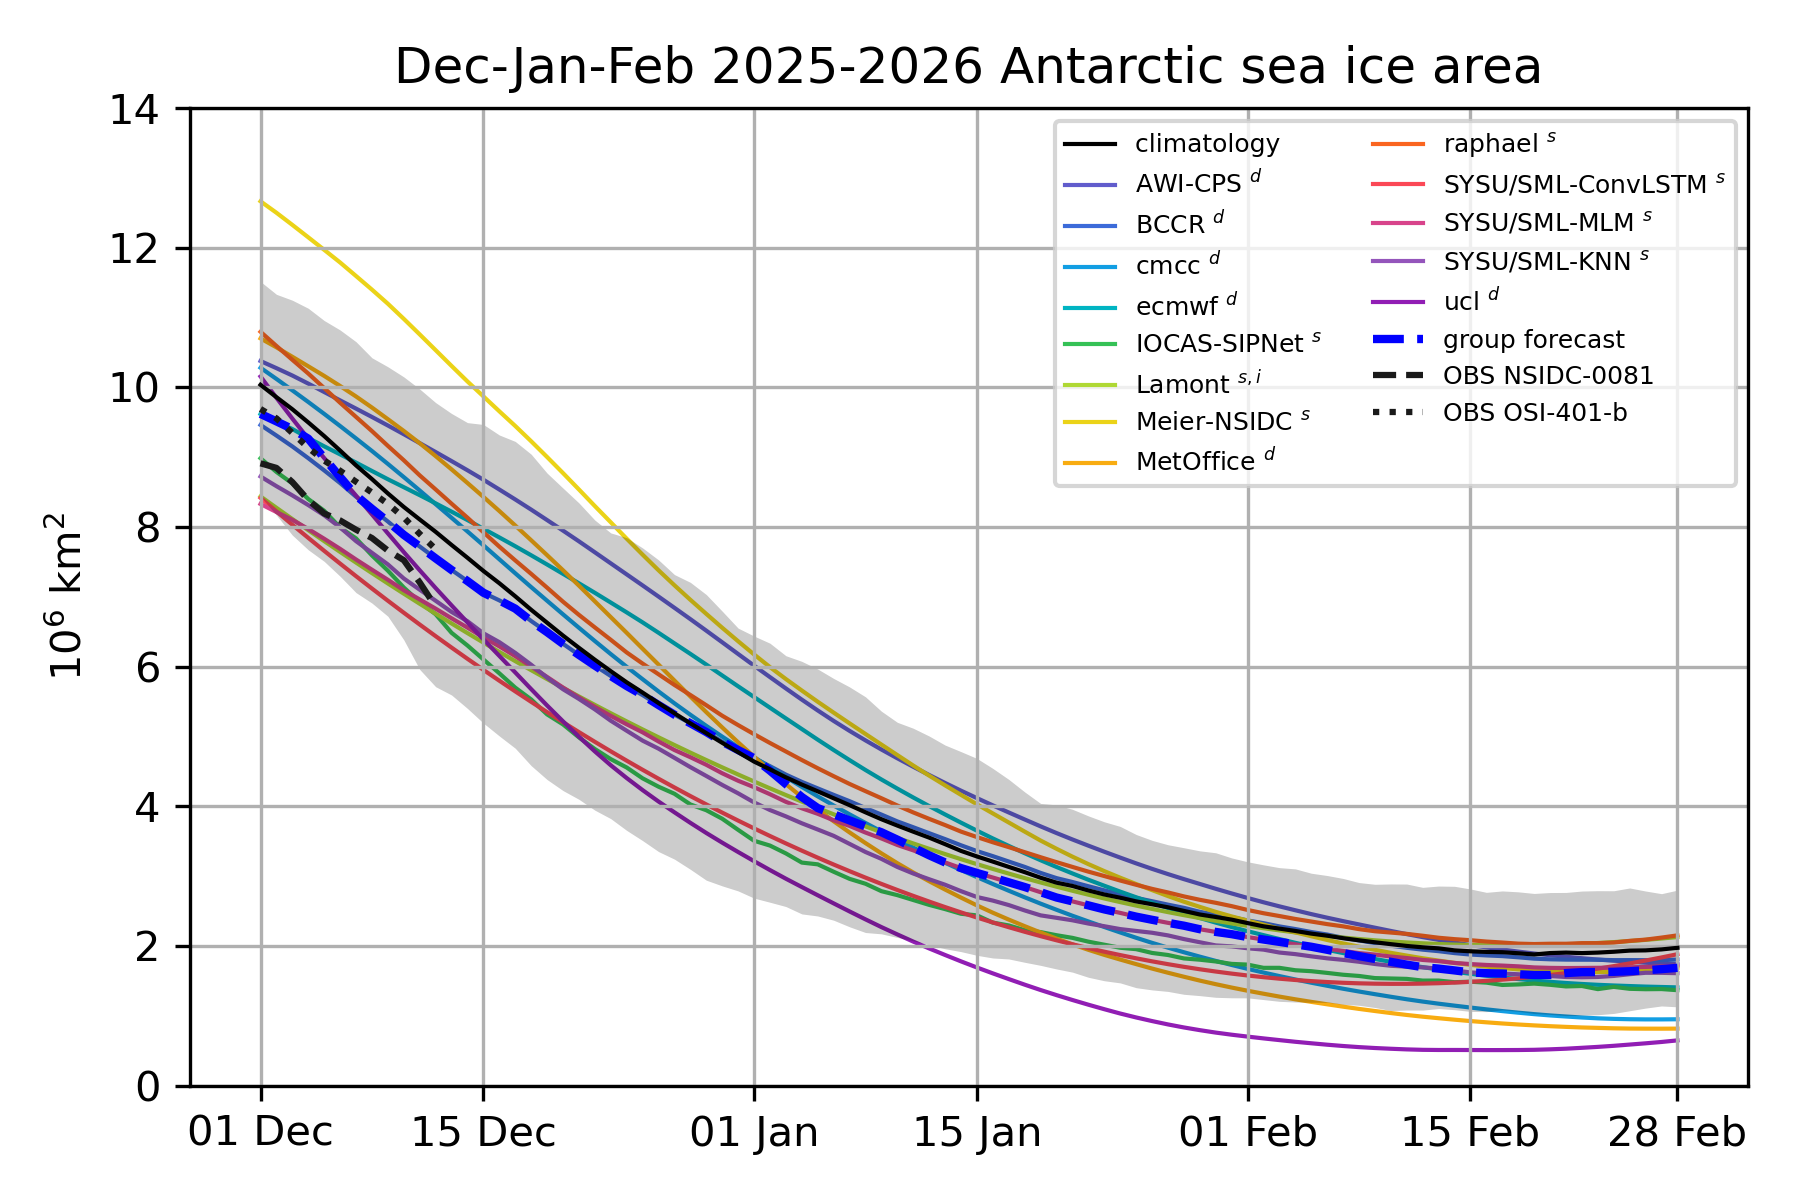
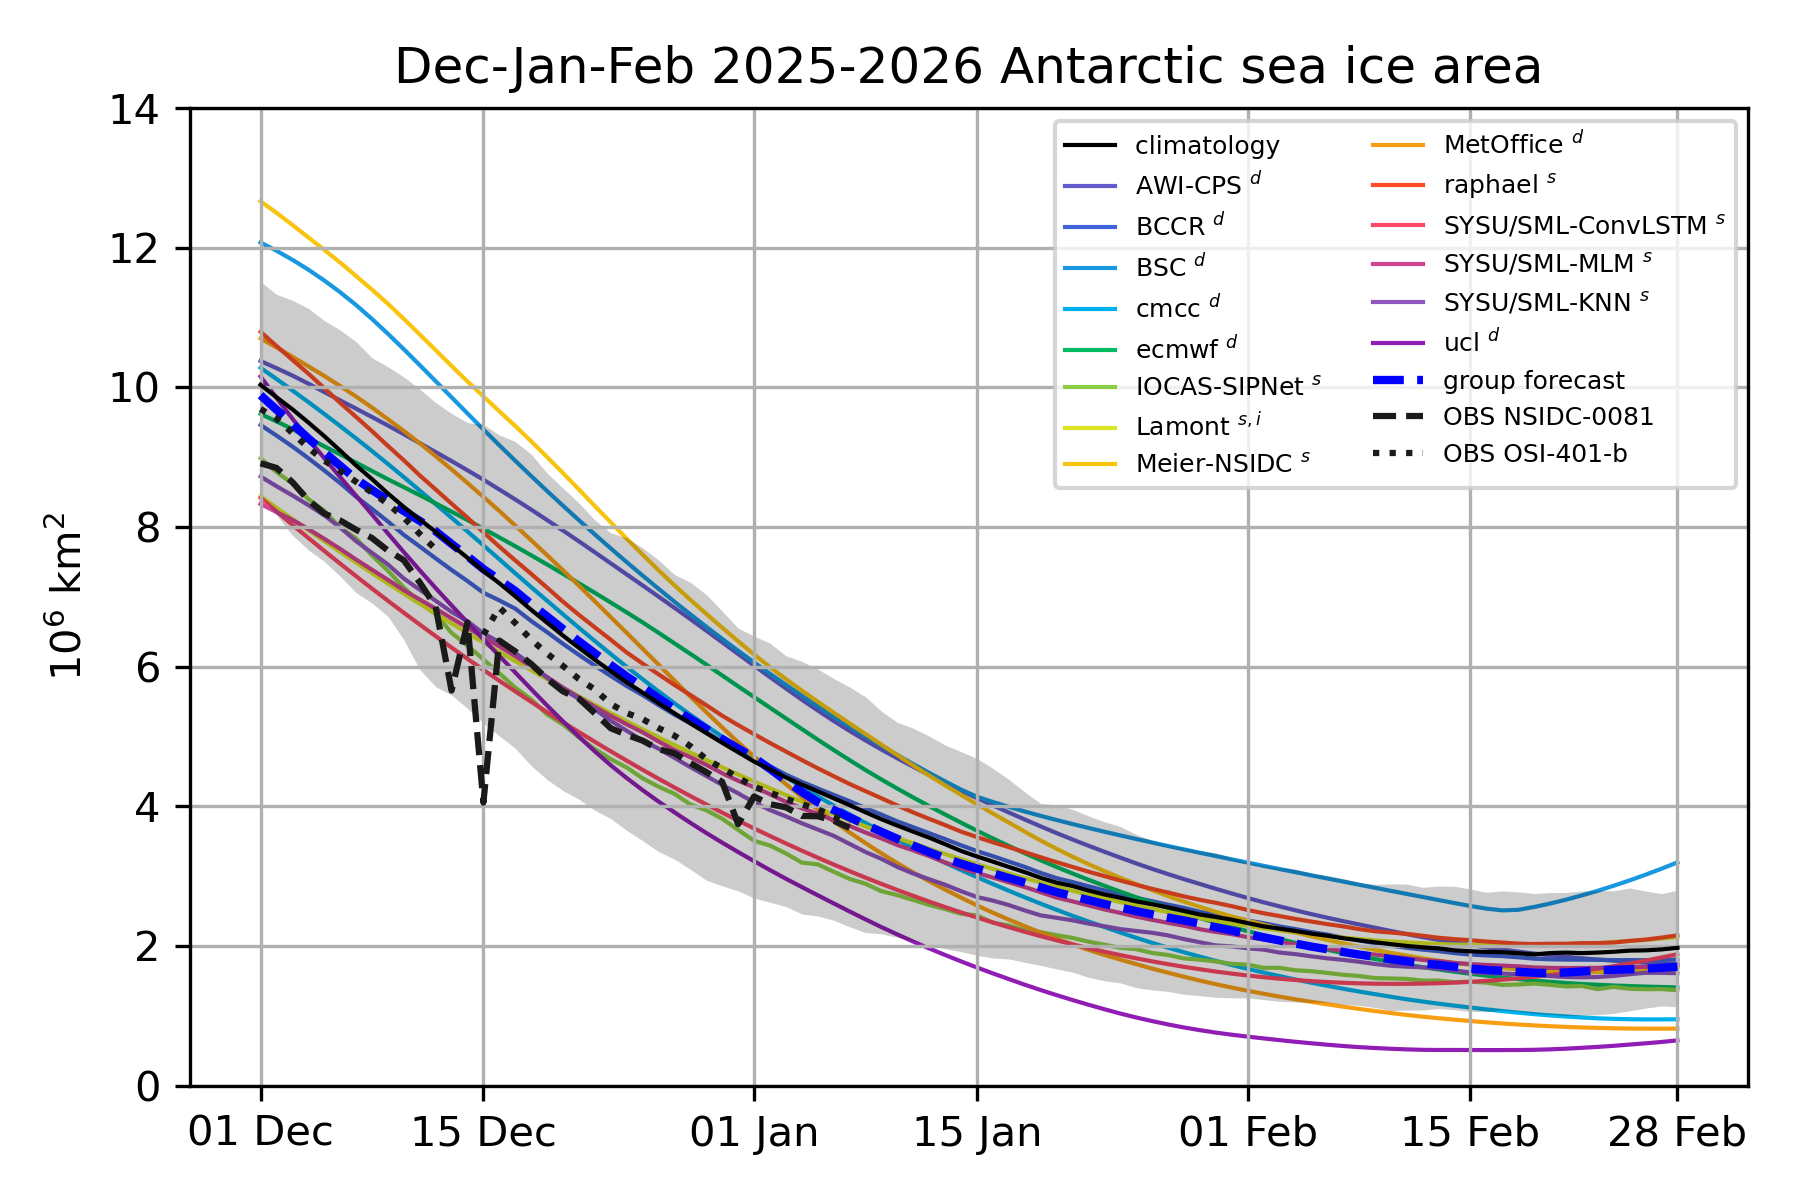
merge resolve

diff --git a/analyses.md b/analyses.md
@@ -11,19 +11,19 @@ We warmly thank the following groups for contributing a forecast this year:
 | # | Contributor name | Short name (in figures) | Forecasting method              | Ensemble size  | Initialization date* | Forecast submission date   | Diagnostics provided        |
 |---|------------------|-------------------------|---------------------------------|----------------|---------------------|-----------------------------|-----------------------------|
 | 1 | AWI              | AWI-CPS                 | Dynamical model                 | 30             | 30th November 2025  |  10th December 2025         | SIA+rSIA+SIC+SIV            |
-| 2 | BCCR              | BCCR                | Dynamical model                 | 60             | 1st December 2025  |  22nd December 2025         | SIA+rSIA            |
-| 3 | CMCC             | cmcc                    | Dynamical model                 | 50             | 1st  November 2025  |  10th December 2025         | SIA+rSIA+SIC                |
-| 4 | Climatological forecast | climatology      | Statistical; ensemble of all 30 previous years   | 30         | 28 February 2025    |  18th December 2025         | SIA+rSIA+SIC   |
-| 5 | ECMWF            | ecmwf                   | Dynamical model                 | 51             | 1st December 2025       |  22nd December 2025         | SIA+rSIA                    |
-| 6 | IOCAS            | IOCAS-SIPnet            | Statistical model               | 5              | 1st  December 2025       |  12th December 2025         | SIA+rSIA+SIC                |
-| 7 | Lamont           | Lamont                  | Statistical model               | 1              | 30th November 2025      |  10th December 2025         | SIA+rSIA+SIC (interpolated) |
-| 8 | Meier (NSIDC)    | Meier-NSIDC             | Statistical model               | 1              | 1st  December 2025      |  23 December 2025          | SIA                 |
-| 9 | Met Office       | MetOffice               | Dynamical model                 | 42             | 30th November 2025      |  2nd December 2025          | SIA+rSIA+SIC                |
-| 10 | raphael       | Marilyn Raphael, Marc Hancock     | Statistical model                 | 100             | 30th November 2025      |  22nd December 2025          | SIA               |
-| 11 | SYSU/SML         | SYSU/SML-ConvLSTM       | Statistical model               | 1              | 1st  December 2025      |  8th December 2025          | SIA                         |
-| 12 | SYSU/SML         | SYSU/SML-MLM            | Statistical model               | 1              | 1st  December 2025      |  8th December 2025          | SIA+rSIA+SIC                |
-| 13 | SYSU/SML         | SYSU/SML-KNN            | Statistical model               | 1              | 1st  December 2025       |  8th December 2025          | SIA+rSIA+SIC                |
-| 14| UCLouvain        | ucl                     | Dynamical model (ocean-sea ice) | 10             | 1st of December 2025    |  15th December 2025         | SIA+rSIA+SIC+SIV            |
+| 2 | BCCR             | BCCR                    | Dynamical model                 | 60             | 1st December 2025   |  22nd December 2025         | SIA+rSIA                    |
+| 3 | BSC              | BSC                     | Dynamical model                 | 50             | 1st November 2025   |  13th January 2026          | SIA+rSIA+SIC+SIV            |
+| 4 | CMCC             | cmcc                    | Dynamical model                 | 50             | 1st  November 2025  |  10th December 2025         | SIA+rSIA+SIC                |
+| 5 | Climatological forecast | climatology      | Statistical; ensemble of all 30 previous years | 30 | 28 February 2025 |  18th December 2025         | SIA+rSIA+SIC                |
+| 6 | ECMWF            | ecmwf                   | Dynamical model                 | 51             | 1st December        |  22nd December 2025         | SIA+rSIA                    |
+| 7 | IOCAS            | IOCAS-SIPnet            | Statistical model               | 5              | 1st  December       |  12th December 2025         | SIA+rSIA+SIC                |
+| 8 | Lamont           | Lamont                  | Statistical model               | 1              | 30th November       |  10th December 2025         | SIA+rSIA+SIC (interpolated) |
+| 9 | Meier (NSIDC)    | Meier-NSIDC             | Statistical model               | 1              | 1st  December       |  23 December 2025           | SIA                         |
+| 10 | Met Office       | MetOffice               | Dynamical model                 | 42             | 30th November       |  2nd December 2025          | SIA+rSIA+SIC                |
+| 11| SYSU/SML         | SYSU/SML-ConvLSTM       | Statistical model               | 1              | 1st  December       |  8th December 2025          | SIA                         |
+| 12| SYSU/SML         | SYSU/SML-MLM            | Statistical model               | 1              | 1st  December       |  8th December 2025          | SIA+rSIA+SIC                |
+| 13| SYSU/SML         | SYSU/SML-KNN            | Statistical model               | 1              | 1st  December       |  8th December 2025          | SIA+rSIA+SIC                |
+| 14| UCLouvain        | ucl                     | Dynamical model (ocean-sea ice) | 10             | 1st of December     |  15th December 2025         | SIA+rSIA+SIC+SIV            |
 
 *Initialization date is defined as the date of the last information used to generate the forecast
 
